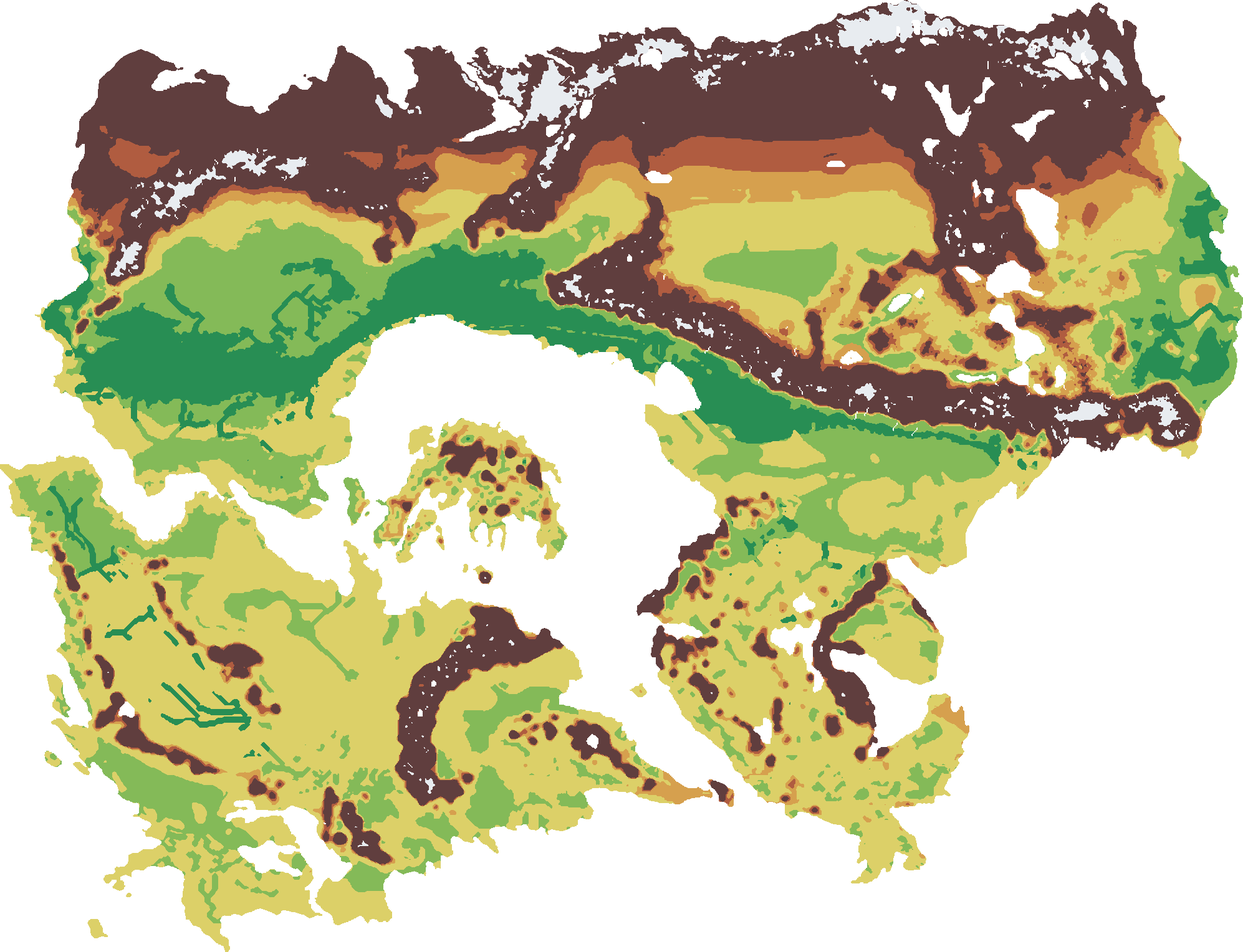
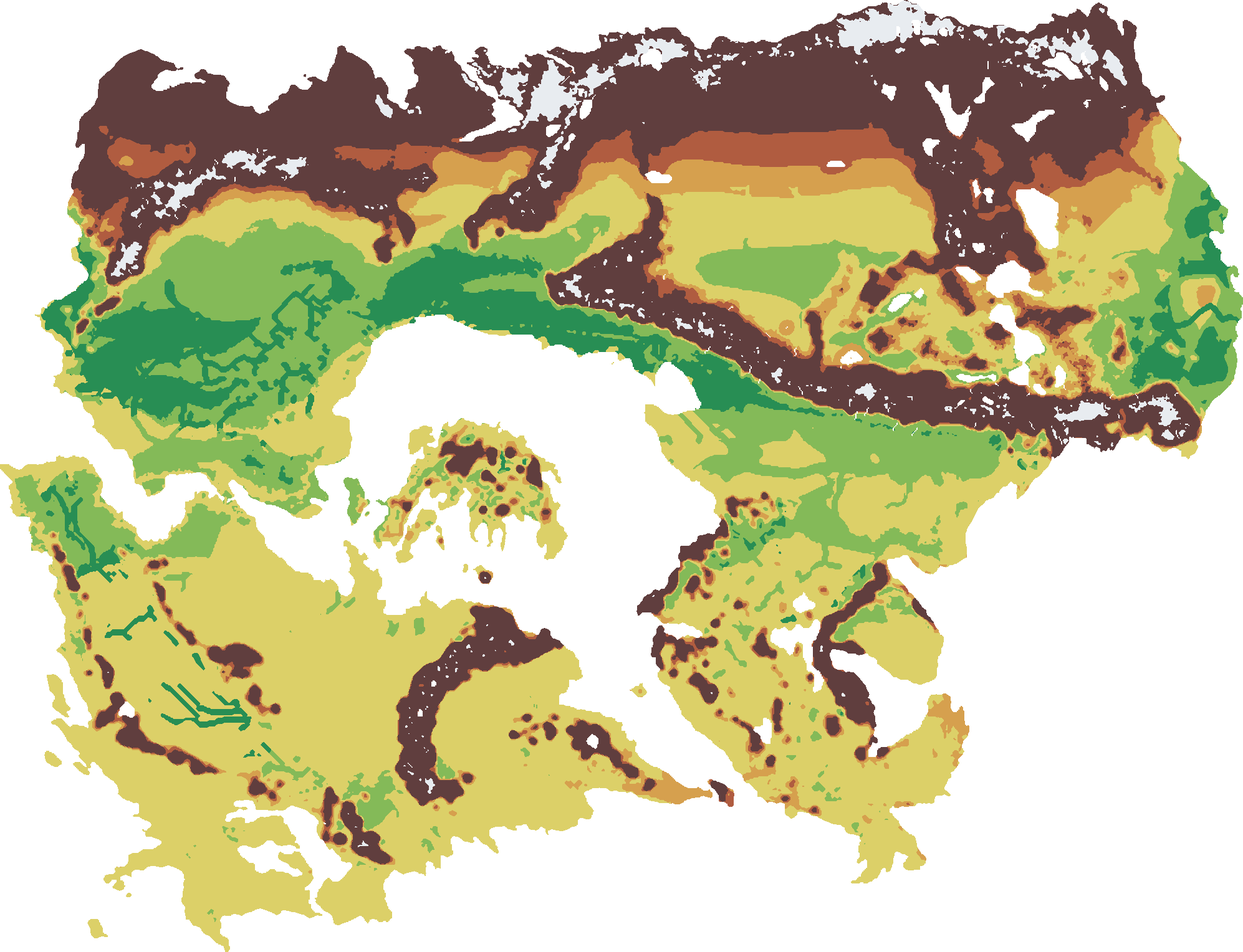
Yaşanabilirlik: hastalık (MARA sıtma mevsimi) ve taşkın etkenleri
Claude-Session: https://claude.ai/code/session_01X56oZFTqgptLAFmNm82jib

diff --git a/app.js b/app.js
@@ -1103,14 +1103,14 @@ function baslat(J, resimler){
   }
   function yasamSatiri(lon, lat){
     if(!yasamModu() || !yasamKur() || !YK.veri) return "";
-    // veri PNG'si dikey 4 bölüm: 0 = sınıf + 16 × su erişimli, puan × 2.5; 1-3 = dokuz etken (RGB sırayla)
+    // veri PNG'si dikey bölümler: 0 = sınıf + 16 × su erişimli, puan × 2.5; sonrakiler = etkenler (RGB sırayla, bölüm başına 3)
     const K = YJ.kesit, V = yasamRes()[1], W2 = V.naturalWidth, H2 = YJ.yukseklik;
     const x = Math.floor((lon-K[0])/(K[2]-K[0])*W2), y = Math.floor((K[3]-lat)/(K[3]-K[1])*H2);
     if(x < 0 || y < 0 || x >= W2 || y >= H2) return "";
     const p = YK.veri.getImageData(x, y, 1, 1).data, c = YJ.siniflar[p[0] & 15]; if(!c) return "";
     if((p[0] & 15) === 7) return `<div class="k-bk"><b>Yaşanabilirlik</b> ${c.ad} · ${c.ne}</div>`;
-    const f = []; for(let m = 1; m <= 3; m++){ const q = YK.veri.getImageData(x, y + m*H2, 1, 1).data; f.push(q[0]/255, q[1]/255, q[2]/255); }
-    const E = YJ.etkenler, puan = Math.round(p[1]/2.5), yuz = v => "%" + Math.round(v*100);
+    const E = YJ.etkenler, f = []; for(let m = 1; m <= Math.ceil(E.length/3); m++){ const q = YK.veri.getImageData(x, y + m*H2, 1, 1).data; f.push(q[0]/255, q[1]/255, q[2]/255); }
+    const puan = Math.round(p[1]/2.5), yuz = v => "%" + Math.round(v*100);
     // 0.75 altındakiler sınırlayıcı: en zayıftan başlayarak; geri kalanı kısaca
     const sirali = E.map((e, i) => ({ad:e.ad, v:f[i]})).sort((a, b) => a.v - b.v), zayif = sirali.filter(e => e.v < 0.75), iyi = sirali.filter(e => e.v >= 0.75);
     return `<div class="k-bk"><b>Yaşanabilirlik</b> ${c.ad} · ${puan}/100 <small>${c.ne}</small></div>`
@@ -1415,7 +1415,7 @@ function baslat(J, resimler){
     if(k!=="iklim"){ gor = gorunumKur(D, k, donem, ayar.bant);
       if(G){ G.kur("tAlan", gor.a, W, H, "L", true); G.kur("tLut", gor.lut, 256, 1, "RGB", true); } }
     if(!G) yedekBoya();
-    $("#altbaslik").textContent = {iklim:"İklim sınıfları, Köppen-Geiger", arazi: TK && ayar.araziMod==="levha" ? "Levhalar, sınırlar ve volkan kuşakları" : BI && ayar.araziMod==="bitki" ? "Doğal bitki örtüsü, iklimden" : TP && ayar.araziMod==="toprak" ? "Toprak türleri, WRB" : YS && ayar.araziMod==="yasam" ? "Yaşanabilirlik, dokuz etkenli puan" : TR && ayar.araziMod==="tarim" ? "Tarımsal verimlilik, dört etkenli puan" : "Arazi, yükseklik",
+    $("#altbaslik").textContent = {iklim:"İklim sınıfları, Köppen-Geiger", arazi: TK && ayar.araziMod==="levha" ? "Levhalar, sınırlar ve volkan kuşakları" : BI && ayar.araziMod==="bitki" ? "Doğal bitki örtüsü, iklimden" : TP && ayar.araziMod==="toprak" ? "Toprak türleri, WRB" : YS && ayar.araziMod==="yasam" ? "Yaşanabilirlik, on bir etkenli puan" : TR && ayar.araziMod==="tarim" ? "Tarımsal verimlilik, dört etkenli puan" : "Arazi, yükseklik",
       sicaklik: ayar.sicMod!=="ort" && gunlukAl(D) ? "Sıcaklık, "+SIC_MOD[ayar.sicMod]+", "+(donem<0 ? (ayar.sicMod==="tepe" ? "yılın en sıcak ayı" : ayar.sicMod==="dip" ? "yılın en soğuk ayı" : "yıllık ortalama") : AYLAR[donem])
         : "Sıcaklık, "+(donem<0 ? "yıllık ortalama" : AYLAR[donem]),
       yagis:"Yağış, "+(donem<0 ? "yıllık toplam" : AYLAR[donem]),

diff --git a/test/uygulama_test.js b/test/uygulama_test.js
@@ -308,8 +308,8 @@ const OLC = () => {
       await p.evaluate(() => document.querySelector("[data-arazimod=yukseklik]").click());
       await p.waitForFunction(() => document.querySelector("#yasam").hidden, null, { timeout: 5000 }).catch(() => {});
       const kapali = await ysPiksel();
-      denetle("genel yasanabilirlik: harita ciziliyor, kartta yasanabilirlik satiri, yukseklikte bos",
-        acik > 50000 && kapali === 0 && /Yaşanabilirlik/.test(t), `acik ${acik}, kapali ${kapali} piksel; ${t.slice(0, 80)}`);
+      denetle("genel yasanabilirlik: harita ciziliyor, kartta yasanabilirlik satiri (hastalik ve taskin dahil), yukseklikte bos",
+        acik > 50000 && kapali === 0 && /Yaşanabilirlik/.test(t) && /Hastalık/.test(t) && /Taşkın/.test(t), `acik ${acik}, kapali ${kapali} piksel; ${t.slice(0, 80)}`);
       // nehir cevresi secenegi: dar secilince yeniden cizilir, genise donunce de
       await p.evaluate(() => document.querySelector("[data-k=arazi]").click()); await bekle(250);
       await p.evaluate(() => document.querySelector("[data-arazimod=yasam]").click()); await bekle(400);

diff --git a/sw.js b/sw.js
@@ -11,7 +11,7 @@
 
    AD'yi yalnizca KABUK listesi degistiginde artir. Kod ve veri guncellemesi
    icin gerekmez: ag-once zaten tazesini getirir. */
-const AD = 'dunyam-atlas-v13';   // v12: yaşanabilirlikte nehir çevresi seçeneği
+const AD = 'dunyam-atlas-v13';   // v13: tarım katmanı
 const KABUK = [
   './', 'index.html', 'app.js', 'style.css', 'manifest.webmanifest', 'data/atlas.json',
   'data/doku.png', 'data/yukseklik.png', 'data/kabartma.jpg', 'data/kabartma_gri.jpg', 'data/kabartma_bir.jpg', 'data/dolasim.png', 'data/su.json', 'data/tektonik.json', 'data/levha.png', 'data/bitki.json', 'data/bitki.png', 'data/bitki_veri.png', 'data/toprak.json', 'data/toprak.png', 'data/toprak_veri.png', 'data/yasam.json', 'data/yasam.png', 'data/yasam_veri.png', 'data/yasam_dar.png', 'data/yasam_dar_veri.png', 'data/tarim.json', 'data/tarim.png', 'data/tarim_veri.png', 'data/tarim_yagmur.png', 'data/tarim_yagmur_veri.png',

diff --git a/yasam/yasam.py b/yasam/yasam.py
@@ -15,7 +15,11 @@ sıcak ve nemli olduğu için neredeyse her yer tavana yapışıyordu (sahibi 1 
   5 toprak        WRB türünün verimlilik sırası (toprak/toprak.py); ağırlığı 0, gıdanın içinde
   6 deniz         kıyıya uzaklık (balık, ticaret, ılımanlık)
   7 tehlike       çarpışma/dönüşüm levha sınırı (deprem) ve volkan kuşağı
-  8 alan          çevredeki ~50 km'de elverişli kara payı: dar bir şerit mi, geniş bir ova mı
+  8 hastalık      sıtma gibi sivrisinek kaynaklı hastalıkların iklim uygunluğu: aylık ortalama
+                  18-32 °C ve yağış >= 80 mm olan ay sayısı (MARA/ARMA, Craig, Snow ve le Sueur 1999)
+  9 taşkın        büyük nehrin taşkın ovası (nehirden yükseklik, debi, yağışın mevsimselliği) ve
+                  alçak kıyı (fırtına kabarması)
+ 10 alan          çevredeki ~50 km'de elverişli kara payı: dar bir şerit mi, geniş bir ova mı
 
 Birleşim: ağırlıklı geometrik ortalama (bir etken 0 ise sonuç 0: en zayıf halka
 belirleyicidir, ortalama gibi telafi edilemez), alan etkeni çarpan olarak.
@@ -59,6 +63,8 @@ ETKEN = [
     ("Toprak", "toprak türünün verimliliği (gıdanın içinde)", 0.0),
     ("Deniz", "kıyıya uzaklık", 0.5),
     ("Tehlike", "deprem ve volkan", 1.0),
+    ("Hastalık", "sivrisinek kaynaklı hastalık mevsimi", 2.0),
+    ("Taşkın", "nehir taşkın ovası ve alçak kıyı", 0.5),
 ]
 # toprak türü (toprak/toprak.py kodu) → verimlilik 0-1 (WRB türlerinin genel tarımsal sırası; yargı)
 TOPRAK_VERIM = {1: 0.40, 2: 0.55, 3: 0.45, 4: 0.80, 5: 0.70, 6: 0.35, 7: 1.00, 8: 0.85,
@@ -78,8 +84,9 @@ def npp(Tyil, AET):
     return np.minimum(nt, na)
 
 
-def etkenler(T, Tc, Tw, gdd5, alfa, P, aet, pe, kuru_ay, pay3, egim, z, toprak_f, kiyi_km, tehlike, w):
-    """Sekiz etken (0-1), alan etkeni ayrı hesaplanır. w: nehir/göl erişimi 0-1."""
+def etkenler(T, Tc, Tw, gdd5, alfa, P, aet, pe, kuru_ay, pay3, egim, z, toprak_f, kiyi_km, tehlike, w, hastalik_ay, taskin):
+    """On etken (0-1), alan etkeni ayrı hesaplanır. w: nehir/göl erişimi 0-1;
+    hastalik_ay: bulaşmaya uygun ay sayısı (0-12); taskin: taşkın riski 0-1."""
     # nüfus yoğunluğunun yıllık ortalama sıcaklığa dağılımı (Xu vd. 2020, PNAS): ana tepe
     # ~11-15 °C, daha küçük ikinci tepe ~20-25 °C (çoğunlukla Hint muson bölgesi).
     # İlk sürümde ikinci tepe yanlışlıkla 27 °C'deydi (1 Ekim düzeltildi); bu Amazon gibi
@@ -103,7 +110,13 @@ def etkenler(T, Tc, Tw, gdd5, alfa, P, aet, pe, kuru_ay, pay3, egim, z, toprak_f
     arazi = (1 - ss(egim, 40, 300)) * (1 - ss(z, 2000, 5000))
     toprak_e = toprak_f
     deniz = 0.6 + 0.4 * np.exp(-kiyi_km / 400.0)
-    return [sic, su, gida, mev, arazi, toprak_e, deniz, tehlike]
+    # hastalık: kararlı bulaşma ~5 uygun ay ister (MARA); 1 ayda başlar, 7 ayda tam yük.
+    # Tam yükte etken 0.5, ağırlık 2: tropik ovalar yaşanmaz olmaz, ama Amazon ve Kongo
+    # havzası gibi sıcak ve yağışlı yerler ılıman ovaların gerisinde kalır. Ağırlık 1 ve
+    # 0.6 ile Amazon yalnız 42.0 → 41.7 iniyordu (geometrik ortalamada eriyordu).
+    hastalik = 1 - 0.5 * ss(hastalik_ay, 1, 7)
+    taskin_e = 1 - 0.35 * np.clip(taskin, 0, 1)
+    return [sic, su, gida, mev, arazi, toprak_e, deniz, tehlike, hastalik, taskin_e]
 
 
 def birlestir(f):
@@ -163,6 +176,35 @@ def su_agirligi(sinif, gol, genis):
     return np.maximum(w, _profil(dg, GOL_GENIS if genis else GOL_DAR, genis))
 
 
+def hastalik_aylari(Tay, Pay):
+    """Sıtma bulaşmasına iklimce uygun ay sayısı (bulanık, 0-12). MARA/ARMA (Craig, Snow
+    ve le Sueur 1999): aylık ortalama 18-32 °C (18-22 ve 32-40 arası geçiş) ve aylık yağış
+    en az 80 mm (0-80 arası geçiş). Kış minimumu ve ardışıklık koşulu sadeleştirildi."""
+    t = ss(Tay, 18, 22) * (1 - ss(Tay, 32, 40))
+    return (t * ss(Pay, 0, 80)).sum(0)
+
+
+def taskin_riski(z, egim, sinif, pay3, ocean):
+    """0-1 taşkın riski. Nehir: en yakın nehir hücresinin yüksekliğine göre yükseklik
+    (HAND benzeri) 3 m'de tam, 25 m'de sıfır; debi sınıfına göre genişleyen ova
+    (1: 3, 2: 6, 3: 12 hücre) ve sınıf ağırlığı (0.4, 0.7, 1); yağış birkaç aya yığılmışsa
+    (en yağışlı 3 ayın payı 0.35-0.70) daha sert. Kıyı: denize 2 hücre içinde ve 2-15 m
+    alçaklık (fırtına kabarması, delta)."""
+    r = np.zeros(z.shape, np.float32)
+    for c, (gen, agr) in {1: (3, 0.4), 2: (6, 0.7), 3: (12, 1.0)}.items():
+        nehir = sinif >= c
+        if not nehir.any():
+            continue
+        dist, (yi, xi) = ndimage.distance_transform_edt(~nehir, return_indices=True)
+        hand = np.maximum(z - z[yi, xi], 0)
+        ova = np.where(dist < gen, 0.5 * (1 + np.cos(np.pi * dist / gen)), 0)
+        r = np.maximum(r, agr * ova * (1 - ss(hand, 3, 25)) * (1 - ss(egim, 40, 150)))
+    r = r * (0.6 + 0.4 * ss(pay3, 0.35, 0.70))
+    kiyi = ndimage.distance_transform_edt(~ocean) <= 2
+    r = np.maximum(r, 0.6 * kiyi * (1 - ss(z, 2, 15)))
+    return np.clip(r, 0, 1)
+
+
 def tehlike_alani(lat, lon, shape):
     """Çarpışma, dalma ve dönüşüm sınırlarının ~40 km çevresi (deprem) ve volkan
     kuşakları (toprak/toprak.py maskesi). 1 = tehlikesiz, 0.6'ya kadar iner."""
@@ -196,33 +238,34 @@ def alan_etkeni(S0, kara):
     return 0.7 + 0.3 * ss(pay, 0.10, 0.60), pay
 
 
-# sıra: T, Tc, Tw, gdd5, alfa, P, aet, pe, kuru_ay, pay3, egim, z, toprak, kiyi_km, tehlike, w, alan payı
+# sıra: T, Tc, Tw, gdd5, alfa, P, aet, pe, kuru_ay, pay3, egim, z, toprak, kiyi_km, tehlike, w, alan payı,
+# hastalık ayı (MARA uygun ay sayısı, kaba), taşkın riski (0-1, yargı: Sarı Irmak, Ganj yüksek)
 DUNYA_ORNEKLERI = {
-        "Po ovası (Bologna)":             (14, 2.5, 25, 3000, 0.75, 800, 600, 800, 0, 0.32, 15, 50, 0.95, 80, 0.85, 0.5, 1.0),
-        "Kuzey Çin ovası (Zhengzhou)":    (15, 0.5, 27.5, 3500, 0.55, 640, 520, 950, 2, 0.55, 15, 100, 0.95, 500, 0.95, 0.5, 1.0),
-        "Paris havzası":                  (11.5, 4, 20, 2300, 0.85, 640, 520, 610, 0, 0.28, 30, 80, 0.80, 150, 1.0, 0.3, 1.0),
-        "Ukrayna bozkırı (Harkov)":       (7.5, -6.5, 20.5, 2200, 0.55, 520, 450, 650, 0, 0.36, 25, 150, 1.00, 450, 1.0, 0.2, 1.0),
-        "Etiyopya yaylası (Addis Ababa)": (16, 14.5, 18, 4000, 0.70, 1100, 800, 1100, 4, 0.60, 110, 2350, 0.80, 600, 0.70, 0.2, 0.9),
-        "Ganj ovası (Lucknow-Varanasi)":  (25.5, 16, 32.5, 7500, 0.60, 1100, 900, 1500, 6, 0.70, 15, 50, 0.95, 400, 0.95, 1.0, 1.0),
-        "Yunnan yaylası (Kunming)":       (15.5, 9, 20.5, 3700, 0.70, 1000, 750, 1050, 4, 0.55, 120, 1890, 0.45, 600, 0.85, 0.2, 0.85),
-        "Amazon ormanı (Manaus)":         (27.5, 26.5, 28.5, 8000, 0.95, 2300, 1400, 1450, 0, 0.42, 20, 50, 0.40, 1300, 1.0, 0.3, 1.0),
-        "Nil vadisi (Kahire)":            (22, 14, 29, 6500, 0.08, 25, 25, 1500, 12, 0.55, 15, 20, 0.95, 150, 1.0, 1.0, 0.75),
-        "Mezopotamya (Bağdat)":           (23, 10, 35, 6500, 0.10, 150, 150, 1800, 8, 0.50, 15, 40, 0.80, 450, 1.0, 1.0, 0.85),
-        "Kanada kalkanı (Thompson)":      (-3, -24, 16, 1100, 0.70, 540, 330, 380, 0, 0.40, 40, 230, 0.35, 600, 1.0, 0.3, 1.0),
-        "Sibirya taygası (Yakutsk)":      (-8.8, -38, 19, 1300, 0.60, 240, 150, 250, 3, 0.50, 30, 100, 0.35, 1000, 1.0, 0.3, 1.0),
-        "Sahra içi":                      (24, 13, 34, 6800, 0.02, 15, 15, 2200, 12, 0.60, 30, 400, 0.30, 900, 1.0, 0.0, 1.0),
-        "Tibet platosu (Nagqu)":          (-1, -13, 9, 300, 0.50, 430, 300, 450, 0, 0.80, 150, 4500, 0.15, 1500, 0.85, 0.2, 0.8),
+        "Po ovası (Bologna)":             (14, 2.5, 25, 3000, 0.75, 800, 600, 800, 0, 0.32, 15, 50, 0.95, 80, 0.85, 0.5, 1.0, 1, 0.5),
+        "Kuzey Çin ovası (Zhengzhou)":    (15, 0.5, 27.5, 3500, 0.55, 640, 520, 950, 2, 0.55, 15, 100, 0.95, 500, 0.95, 0.5, 1.0, 2, 0.7),
+        "Paris havzası":                  (11.5, 4, 20, 2300, 0.85, 640, 520, 610, 0, 0.28, 30, 80, 0.80, 150, 1.0, 0.3, 1.0, 0, 0.2),
+        "Ukrayna bozkırı (Harkov)":       (7.5, -6.5, 20.5, 2200, 0.55, 520, 450, 650, 0, 0.36, 25, 150, 1.00, 450, 1.0, 0.2, 1.0, 0, 0.1),
+        "Etiyopya yaylası (Addis Ababa)": (16, 14.5, 18, 4000, 0.70, 1100, 800, 1100, 4, 0.60, 110, 2350, 0.80, 600, 0.70, 0.2, 0.9, 0, 0.0),
+        "Ganj ovası (Lucknow-Varanasi)":  (25.5, 16, 32.5, 7500, 0.60, 1100, 900, 1500, 6, 0.70, 15, 50, 0.95, 400, 0.95, 1.0, 1.0, 4, 0.8),
+        "Yunnan yaylası (Kunming)":       (15.5, 9, 20.5, 3700, 0.70, 1000, 750, 1050, 4, 0.55, 120, 1890, 0.45, 600, 0.85, 0.2, 0.85, 0, 0.1),
+        "Amazon ormanı (Manaus)":         (27.5, 26.5, 28.5, 8000, 0.95, 2300, 1400, 1450, 0, 0.42, 20, 50, 0.40, 1300, 1.0, 0.3, 1.0, 11, 0.5),
+        "Nil vadisi (Kahire)":            (22, 14, 29, 6500, 0.08, 25, 25, 1500, 12, 0.55, 15, 20, 0.95, 150, 1.0, 1.0, 0.75, 0, 0.3),
+        "Mezopotamya (Bağdat)":           (23, 10, 35, 6500, 0.10, 150, 150, 1800, 8, 0.50, 15, 40, 0.80, 450, 1.0, 1.0, 0.85, 0, 0.5),
+        "Kanada kalkanı (Thompson)":      (-3, -24, 16, 1100, 0.70, 540, 330, 380, 0, 0.40, 40, 230, 0.35, 600, 1.0, 0.3, 1.0, 0, 0.1),
+        "Sibirya taygası (Yakutsk)":      (-8.8, -38, 19, 1300, 0.60, 240, 150, 250, 3, 0.50, 30, 100, 0.35, 1000, 1.0, 0.3, 1.0, 0, 0.3),
+        "Sahra içi":                      (24, 13, 34, 6800, 0.02, 15, 15, 2200, 12, 0.60, 30, 400, 0.30, 900, 1.0, 0.0, 1.0, 0, 0.0),
+        "Tibet platosu (Nagqu)":          (-1, -13, 9, 300, 0.50, 430, 300, 450, 0, 0.80, 150, 4500, 0.15, 1500, 0.85, 0.2, 0.8, 0, 0.0),
     }
 
 
 def dunya_orneklari():
     """Gerçek dünya bölgeleriyle sağlama: aynı etkenler, yaklaşık iklim normalleri ve
     arazi (ezbere, kaba), gerçek nüfus yoğunluğuyla karşılaştırma için. YASAM.md'de tablo.
-    sıra: T, Tc, Tw, gdd5, alfa, P, aet, pe, kuru_ay, pay3, egim, z, toprak, kiyi_km, tehlike, w, alan payı"""
+    sıra: DUNYA_ORNEKLERI'nin üstündeki not"""
     out = {}
     for ad, v in DUNYA_ORNEKLERI.items():
-        T, Tc, Tw, g5, al, P, ae, pe, dm, p3, eg, z, tf, kk, th, w, alan = [np.array([float(x)]) for x in v]
-        f = etkenler(T, Tc, Tw, g5, al, P, ae, pe, dm, p3, eg, z, tf, kk, th, w)
+        T, Tc, Tw, g5, al, P, ae, pe, dm, p3, eg, z, tf, kk, th, w, alan, ha, ta = [np.array([float(x)]) for x in v]
+        f = etkenler(T, Tc, Tw, g5, al, P, ae, pe, dm, p3, eg, z, tf, kk, th, w, ha, ta)
         out[ad] = (float(birlestir(f)[0] * (0.7 + 0.3 * ss(alan, 0.10, 0.60))[0] * 100), [float(x[0]) for x in f])
     return out
 
@@ -230,7 +273,7 @@ def dunya_orneklari():
 def varyant(ad, genis, G, kutu):
     w = su_agirligi(G["sinif"], G["gol"], genis) * G["kara"]
     f = etkenler(G["T"], G["Tc"], G["Tw"], G["gdd5"], G["alfa"], G["P"], G["aet"], G["pe"], G["kuru_ay"], G["pay3"], G["egim"],
-                 G["z"], G["toprak_f"], G["kiyi_km"], G["tehlike"], w)
+                 G["z"], G["toprak_f"], G["kiyi_km"], G["tehlike"], w, G["hastalik_ay"], G["taskin"])
     S0 = birlestir(f)
     alan, _ = alan_etkeni(S0, G["kara"])
     S = 100 * S0 * alan
@@ -267,12 +310,13 @@ def varyant(ad, genis, G, kutu):
         pal[3 * c:3 * c + 3] = list(r)
     im.putpalette(pal)
     im.save(os.path.join(KOK, "data", "yasam%s.png" % ad), optimize=True, transparency=0)
-    # kart verisi, dikey 4 bölüm (her biri kaynak çözünürlükte, h yüksekliğinde):
+    # kart verisi, dikey 5 bölüm (her biri kaynak çözünürlükte, h yüksekliğinde):
     #   0: R = sınıf + 16 * su erişimli, G = puan * 2.5, B = 0
-    #   1-3: dokuz etken (0-1 → 0-255), sırayla RGB, RGB, RGB
+    #   1-4: on bir etken (0-1 → 0-255), sırayla RGB; son bölümün B'si boş
     b0 = np.stack([kc + 16 * sulak[i0:i1, j0:j1], np.clip(np.round(S[i0:i1, j0:j1] * 2.5), 0, 250), np.zeros_like(kc)], -1)
     fb = [np.clip(np.round(x[i0:i1, j0:j1] * 255), 0, 255) for x in f]
-    bol = [b0] + [np.stack(fb[3 * m:3 * m + 3], -1) for m in range(3)]
+    fb = fb + [np.zeros_like(fb[0])] * (-len(fb) % 3)
+    bol = [b0] + [np.stack(fb[3 * m:3 * m + 3], -1) for m in range(len(fb) // 3)]
     Image.fromarray(np.concatenate(bol, 0).astype(np.uint8), "RGB").save(os.path.join(KOK, "data", "yasam%s_veri.png" % ad), optimize=True)
     return pay, ort, secim.shape, f
 
@@ -281,7 +325,7 @@ def main():
     ornek = dunya_orneklari()
     print("Dünya bölgeleri: puan; sıcaklık/su/gıda/mevsim/arazi")
     for ad, (S, f) in ornek.items():
-        print("  %-31s %5.1f   %s" % (ad, S, " ".join("%.2f" % x for x in f[:5])))
+        print("  %-31s %5.1f   %s   hast %.2f taşk %.2f" % (ad, S, " ".join("%.2f" % x for x in f[:5]), f[8], f[9]))
     d = akim.hesapla(os.path.join(KOK, "buzul", "_iklim_bugun025.npz"))
     z, lat, lon = d["z"], d["lat"], d["lon"]
     su = np.load(os.path.join(KOK, "su", "_su.npz"))
@@ -302,7 +346,9 @@ def main():
     G = dict(T=T, Tc=b["Tc"], Tw=b["Tw"], gdd5=b["gdd5"], alfa=b["alfa"], P=d["P"], aet=d["AET"], pe=d["PE"],
              kuru_ay=kuru_ay, pay3=pay3, egim=tp._egim(z), z=z, toprak_f=toprak_f, kiyi_km=kiyi_km,
              tehlike=tehlike_alani(lat, lon, kara.shape), gol=gol, kara=kara, buzul=d["buzul"],
-             sinif=nehir_sinifi(lat, lon, kara.shape), wgt=np.cos(np.radians(lat))[:, None] * kara)
+             sinif=nehir_sinifi(lat, lon, kara.shape), wgt=np.cos(np.radians(lat))[:, None] * kara,
+             hastalik_ay=hastalik_aylari(d["Tay"], d["Pay"]))
+    G["taskin"] = taskin_riski(z, G["egim"], G["sinif"], pay3, ocean) * kara
     ii, jj = np.where(kara)
     kutu = (ii.min(), ii.max() + 1, jj.min(), jj.max() + 1)
     i0, i1, j0, j1 = kutu
@@ -315,7 +361,7 @@ def main():
     kesit = [float(lon[j0] - dn / 2), float(lat[i1 - 1] + dl / 2), float(lon[j1 - 1] + dn / 2), float(lat[i0] - dl / 2)]
     veri = dict(ne="Dünyam yaşanabilirlik endeksi (yasam/yasam.py); yöntem YASAM.md",
                 kesit=kesit, ortalama=round(ort, 1), ortalama_dar=round(ort_d, 1), yukseklik=int(i1 - i0),
-                kodlar="yasam.png (geniş, yumuşak nehir çevresi, varsayılan) ve yasam_dar.png (nehrin yanı); yasam*_veri.png dikey 4 bölüm: 0 = R sınıf + 16 * su erişimli, G puan * 2.5; 1-3 = dokuz etken 0-255 (RGB sırayla)",
+                kodlar="yasam.png (geniş, yumuşak nehir çevresi, varsayılan) ve yasam_dar.png (nehrin yanı); yasam*_veri.png dikey 5 bölüm: 0 = R sınıf + 16 * su erişimli, G puan * 2.5; 1-4 = on bir etken 0-255 (RGB sırayla)",
                 etkenler=[dict(ad=a, ne=n, agirlik=wt) for a, n, wt in ETKEN] + [dict(ad="Alan", ne="çevredeki elverişli kara genişliği", agirlik=0)],
                 siniflar={str(c): dict(ad=a, ne=nn, ornek=o, renk=list(rr), alt=e, pay=round(pay[c], 4), pay_dar=round(pay_d[c], 4))
                           for c, (a, nn, o, rr, e) in SINIF.items()})

diff --git a/tarim/tarim.py b/tarim/tarim.py
@@ -81,7 +81,7 @@ def orneklerden():
     hem sulamalı hem yalnız yağmur. Girdiler kaba normallerdir (ezbere)."""
     out = {}
     for ad, v in ys.DUNYA_ORNEKLERI.items():
-        T, Tc, Tw, g5, al, P, ae, pe, dm, p3, eg, z, tf, kk, th, w, alan = [np.array([float(x)]) for x in v]
+        T, Tc, Tw, g5, al, P, ae, pe, dm, p3, eg, z, tf, kk, th, w, alan = [np.array([float(x)]) for x in v[:17]]
         r = []
         for ww in (w, np.zeros(1)):
             r.append(float(birlestir(etkenler(T, Tw, g5, al, P, dm, eg, z, tf, ww))[0] * 100))

diff --git a/CLAUDE.md b/CLAUDE.md
@@ -41,7 +41,7 @@ Kurgusal bir gezegenin iklim atlası. İki parçası var:
   hata: gündüz-gece farkı 1.9, tepe 1.7, dip 1.35 °C. Gündüz-gece farkı
   √(gün/24) ile ölçeklenir (Dünyam 15 saat: %21 küçük). Kalibrasyon 25-48°K;
   tropikte ve çok yüksekte kaba. Sıcaklık sekmesinde Ortalama/Gündüz/Gece/
-  Tepe/Dip seçimi, kartta klimagram bandı ve satırı. Denize dokununca (her sekmede) deniz kartı: su sıcaklığı, aylık rüzgâr yönü ve Beaufort şeridi, en sert/sakin ay, deniz buzu ayları, tropikal fırtına koşulu (su ≥ 26,5 °C, enlem 5-30°; motor siklon çözmez, yalnız eşik), yakındaki akıntı (`dunyam.currents.json`'dan; "mevsimsel genlik" girdisi akıntı sayılmaz), yağış, en yakın karanın yönü ve sınıfı. Derinlik, gelgit, dalga verisi yok; deniz dokusundaki sığ/derin tonu kıyıya uzaklıktır, batimetri değil. Göller ve nehirler her sekmede kaplama (`data/su.json`, `su/` üretir; ayarlarda aç/kapa, "Ana kollar / Bütün kollar"): uzaktan yalnız 1. kademe büyük ana kollar, yakınlaştıkça 2-4. kademe yumuşakça belirir; göle ya da nehre dokununca kartta Göl/Nehir satırı. Kaydırırken su tuvali yeniden boyanmaz, CSS ile kayar. Su, shader'daki `deniz()` renkleriyle (sığ ton, kıyı köpüğü, kıyı ışıltısı) çizilir; ayrı parlak mavi katman haritaya yapıştırma gibi duruyordu. Dolaşım sekmesinde su çizilmez. Arazi sekmesinde "Yükseklik / Levhalar" seçimi: Levhalar'da levha renkleri, adları ve hızları, sınırlar (yakınsak kırmızı ve dişli, ıraksak yeşil, dönüşüm turuncu) ve volkan kuşakları (`data/tektonik.json`, `data/levha.png`; `tektonik/uygulama.py` üretir); dokununca kartta Levha/Sınır/Volkan satırı. Arazi'de üçüncü seçim "Bitki örtüsü": iklimden doğal biyom haritası (`data/bitki.png`, `bitki_veri.png`, `bitki.json`; `bitki/bitki.py`, BIOME1 eşikleri, `BITKI.md`), kabartmayla gölgeli; kartta biyom ve nedeni. Dördüncü seçim "Toprak": bölgesel (zonal) WRB toprak türleri, biyom + eğim + önülke alüvyon ovası + volkan kuşağı + kapalı havza + nehir taşkın ovasından (`data/toprak.png`, `toprak_veri.png`, `toprak.json`; `toprak/toprak.py`, `TOPRAK.md`), aynı yoldan kabartmayla gölgeli; kartta toprak türü ve Dünya'daki örneği. Beşinci seçim "Yaşanabilirlik": dokuz etkenli 0-100 puan (sıcaklık, su, gıda (toprak verimliliğiyle çarpılır), mevsimsellik, arazi, deniz erişimi, tehlike, alan genişliği; ağırlıklı geometrik ortalama, tek ağır kısıt puanı düşürür; `data/yasam.png`, `yasam_veri.png`, `yasam.json`; `yasam/yasam.py`, `YASAM.md`); kartta sınıf, puan, zayıf ve iyi yönler. Altıncı seçim "Tarım": dört etkenli (ısı, su, toprak, arazi) tarımsal verimlilik puanı, en zayıf halka belirleyici; iki varyant, "Nehirle sulamalı" (varsayılan) ve "Yalnız yağmur" (`data/tarim*.png`, `tarim_veri.png`, `tarim.json`; `tarim/tarim.py`, `TARIM.md`); kartta sınıf, puan, etkenler ve sınırlayan etken. Nehir çevresi iki seçenekli ayar: "Geniş, yumuşak" (varsayılan, debiye göre 2.5-8 hücre kosinüsle söner) ve "Nehrin yanı"; ikisi için ayrı PNG (`yasam.png`, `yasam_dar.png`, `*_veri.png`). Veriyi `data/atlas.json`'dan,
+  Tepe/Dip seçimi, kartta klimagram bandı ve satırı. Denize dokununca (her sekmede) deniz kartı: su sıcaklığı, aylık rüzgâr yönü ve Beaufort şeridi, en sert/sakin ay, deniz buzu ayları, tropikal fırtına koşulu (su ≥ 26,5 °C, enlem 5-30°; motor siklon çözmez, yalnız eşik), yakındaki akıntı (`dunyam.currents.json`'dan; "mevsimsel genlik" girdisi akıntı sayılmaz), yağış, en yakın karanın yönü ve sınıfı. Derinlik, gelgit, dalga verisi yok; deniz dokusundaki sığ/derin tonu kıyıya uzaklıktır, batimetri değil. Göller ve nehirler her sekmede kaplama (`data/su.json`, `su/` üretir; ayarlarda aç/kapa, "Ana kollar / Bütün kollar"): uzaktan yalnız 1. kademe büyük ana kollar, yakınlaştıkça 2-4. kademe yumuşakça belirir; göle ya da nehre dokununca kartta Göl/Nehir satırı. Kaydırırken su tuvali yeniden boyanmaz, CSS ile kayar. Su, shader'daki `deniz()` renkleriyle (sığ ton, kıyı köpüğü, kıyı ışıltısı) çizilir; ayrı parlak mavi katman haritaya yapıştırma gibi duruyordu. Dolaşım sekmesinde su çizilmez. Arazi sekmesinde "Yükseklik / Levhalar" seçimi: Levhalar'da levha renkleri, adları ve hızları, sınırlar (yakınsak kırmızı ve dişli, ıraksak yeşil, dönüşüm turuncu) ve volkan kuşakları (`data/tektonik.json`, `data/levha.png`; `tektonik/uygulama.py` üretir); dokununca kartta Levha/Sınır/Volkan satırı. Arazi'de üçüncü seçim "Bitki örtüsü": iklimden doğal biyom haritası (`data/bitki.png`, `bitki_veri.png`, `bitki.json`; `bitki/bitki.py`, BIOME1 eşikleri, `BITKI.md`), kabartmayla gölgeli; kartta biyom ve nedeni. Dördüncü seçim "Toprak": bölgesel (zonal) WRB toprak türleri, biyom + eğim + önülke alüvyon ovası + volkan kuşağı + kapalı havza + nehir taşkın ovasından (`data/toprak.png`, `toprak_veri.png`, `toprak.json`; `toprak/toprak.py`, `TOPRAK.md`), aynı yoldan kabartmayla gölgeli; kartta toprak türü ve Dünya'daki örneği. Beşinci seçim "Yaşanabilirlik": on bir etkenli 0-100 puan (sıcaklık, su, gıda (toprak verimliliğiyle çarpılır), mevsimsellik, arazi, deniz erişimi, tehlike, hastalık (MARA sıtma mevsimi), taşkın, alan genişliği; ağırlıklı geometrik ortalama, tek ağır kısıt puanı düşürür; `data/yasam.png`, `yasam_veri.png`, `yasam.json`; `yasam/yasam.py`, `YASAM.md`); kartta sınıf, puan, zayıf ve iyi yönler. Altıncı seçim "Tarım": dört etkenli (ısı, su, toprak, arazi) tarımsal verimlilik puanı, en zayıf halka belirleyici; iki varyant, "Nehirle sulamalı" (varsayılan) ve "Yalnız yağmur" (`data/tarim*.png`, `tarim_veri.png`, `tarim.json`; `tarim/tarim.py`, `TARIM.md`); kartta sınıf, puan, etkenler ve sınırlayan etken. Nehir çevresi iki seçenekli ayar: "Geniş, yumuşak" (varsayılan, debiye göre 2.5-8 hücre kosinüsle söner) ve "Nehrin yanı"; ikisi için ayrı PNG (`yasam.png`, `yasam_dar.png`, `*_veri.png`). Veriyi `data/atlas.json`'dan,
   harita dokularını `data/doku.png`, `yukseklik.png`, `kabartma*.jpg`,
   `dolasim.png`'den okur.
 - **Üretici** (`uret.py` + `motor/` + `dunya/`) — iklim motorunun ve dünya
@@ -141,7 +141,7 @@ elenen kollar `dunya/dunyam.json` içindeki `_` ile başlayan notlarda.
 | `data/tektonik.json`, `data/levha.png` | tektonik katman: levhalar, sınır çizgileri, volkan kuşakları; harita kutusuna kırpılmış levha kimliği. `tektonik/uygulama.py` yazar (veri.yml üretmez) |
 | `data/bitki.png`, `data/bitki_veri.png`, `data/bitki.json` | bitki örtüsü: paletli biyom haritası (~0.044°); kart için kaynak çözünürlükte R = biyom kodu, G = nem oranı, B = en soğuk ay; biyom adları, açıklamaları, renkleri, payları. `bitki/bitki.py` yazar (veri.yml üretmez) |
 | `data/toprak.png`, `data/toprak_veri.png`, `data/toprak.json` | toprak türleri: paletli WRB haritası (~0.044°, bitki ile aynı büyütme); kart için kaynak çözünürlükte R = toprak kodu; toprak adları, açıklamaları, renkleri, payları. `toprak/toprak.py` yazar (veri.yml üretmez) |
-| `data/yasam.png`, `data/yasam_veri.png`, `data/yasam.json` | yaşanabilirlik: paletli puan sınıfları (~0.044°); kart için kaynak çözünürlükte dikey 4 bölümlü veri PNG'si (0: R = sınıf + 16 × su erişimli, G = puan × 2.5; 1-3: dokuz etken 0-255). `yasam/yasam.py` yazar (veri.yml üretmez) |
+| `data/yasam.png`, `data/yasam_veri.png`, `data/yasam.json` | yaşanabilirlik: paletli puan sınıfları (~0.044°); kart için kaynak çözünürlükte dikey 5 bölümlü veri PNG'si (0: R = sınıf + 16 × su erişimli, G = puan × 2.5; 1-4: on bir etken 0-255, uygulama bölüm sayısını `etkenler` uzunluğundan alır). `yasam/yasam.py` yazar (veri.yml üretmez) |
 | `tektonik/`, `buzul/`, `su/`, `bitki/`, `toprak/`, `yasam/`, `tarim/` | levha modeli, buzul geçmişi, göl ve nehirler, bitki örtüsü, toprak türleri, yaşanabilirlik, tarımsal verimlilik; giriş belgeleri `TEKTONIK.md` (özet `tektonik/OZET.md`), `BUZUL.md`, `SU.md`, `BITKI.md`, `TOPRAK.md`, `YASAM.md`, `TARIM.md` |
 | `motor/` | iklim motoru — asıl projedeki `climate/` kopyası |
 | `dunya/` | `dunyam.json`, `dunyam.currents.json`, `dunyam_heightmap.png`, `kabartma_kaynak.jpg` |

diff --git a/YASAM.md b/YASAM.md
@@ -31,7 +31,9 @@ parçası.
 | 5 | Toprak | 0 (gıdanın içinde) | WRB türünün tarımsal verimlilik sırası (Chernozem 1.0, Fluvisol 0.95, Kastanozem 0.85, Luvisol ve Andosol 0.8, Cambisol 0.7, Lixisol 0.55, Acrisol 0.45, Ferralsol 0.4, Podzol 0.35, Calcisol 0.3, Leptosol 0.2, Cryosol 0.15, Solonchak 0.1); yargıdır, ölçüm değil |
 | 6 | Deniz | 0.5 | kıyıya uzaklık: 0.6 + 0.4 exp(−d/400 km) (balık, ticaret, ılımanlık; zorunlu değil, bonus) |
 | 7 | Tehlike | 1 | çarpışma, dalma ve dönüşüm levha sınırı çevresi ~40 km (deprem, −0.15) ve volkan kuşağı (−0.30); en çok 0.6'ya iner |
-| 8 | Alan | çarpan | çevredeki ~50 km'de elverişli (≥ 0.5) kara payı: dar bir şerit ya da vadi 0.7, geniş ova 1.0 ("insan yaşamı için yeterli alan var mı") |
+| 8 | Hastalık | 2 | sivrisinek kaynaklı hastalık (sıtma) mevsimi: aylık ortalama 18-32 °C (18-22 ve 32-40 °C arası geçiş) ve yağış ≥ 80 mm (0-80 arası geçiş) olan bulanık ay sayısı (MARA/ARMA, Craig, Snow ve le Sueur 1999, Parasitology Today); 1 ay → 1, 7 ay → 0.5. Kış minimumu ve ardışıklık koşulu sadeleştirildi |
+| 9 | Taşkın | 0.5 | büyük nehrin taşkın ovası: en yakın nehir hücresinden yükseklik (HAND benzeri; 3 m → tam, 25 m → yok), debi sınıfına göre ova genişliği (3, 6, 12 hücre) ve ağırlık (0.4, 0.7, 1), eğim, yağışın en yağışlı 3 aya yığılması; alçak kıyı (denize 2 hücre, 2-15 m: fırtına kabarması, delta). Etken = 1 − 0.35 × risk |
+| 10 | Alan | çarpan | çevredeki ~50 km'de elverişli (≥ 0.5) kara payı: dar bir şerit ya da vadi 0.7, geniş ova 1.0 ("insan yaşamı için yeterli alan var mı") |
 
 **Birleşim:** etkenlerin ağırlıklı geometrik ortalaması (bir etken 0 ise sonuç 0:
 telafi edilemez), çarpı kritik dört etkenin (sıcaklık, su, gıda, arazi) en
@@ -107,10 +109,24 @@ olmasın), kartta yine görünür. Gıda kritik dört etkenden biri olduğu içi
 belirgin. O yaylada medyan puan 90 → 76 ("orta"); içinden geçen nehir vadileri
 (Fluvisol) 96 ile öne çıkıyor.
 
-## Sonuç (kara alanına göre, 1 Ekim, son)
+## Hastalık ve taşkın (2 Ekim, sahibi: "bunları da ekle")
 
-Yaşanmaz %23.3, çok zor %4.3, zor %5.9, orta %37.8, elverişli %18.4, çok elverişli %8.4,
-buz %1.9. Kara ortalaması 56.5 puan. En iyi bölge ~13 °C ılıman ova kuşağı ile Duvar'ın
+İki etken eklendi (yukarıdaki tablo, 8 ve 9). Hastalık önce ağırlık 1 ve tam yükte 0.6
+ile denendi: geometrik ortalamada eriyordu, Amazon yalnız 42.0 → 41.7. Ağırlık 2 ve
+0.5 ile Amazon 40 (çok zor), Ganj 65 (4 uygun ay), Kuzey Çin 94.7; ılıman bölgeler değişmedi.
+Taşkın ağırlığı bilerek küçük (0.5): Dünya'da taşkın ovaları en yoğun yerleşilen yerlerdir,
+taşkın bir bedel ama yerleşimi engellemez.
+
+Haritada hastalık tropik güneyde ve Duvar'ın güneyindeki sıcak, nemli ovada (yaz aylarında
+4-6 uygun ay) çıkıyor; karanın %35'inde etken 0.9'un altında. Alüvyon ovasının (Fluvisol)
+hücre ortalaması 79.2 → 76.6. Taşkın büyük nehirler boyunca ve Duvar eteğinde şeritler hâlinde;
+karanın %14'ünde 0.9'un altında.
+
+## Sonuç (kara alanına göre, 2 Ekim, son)
+
+Yaşanmaz %22.7, çok zor %4.3, zor %6.0, orta %42.2, elverişli %15.9, çok elverişli %7.1,
+buz %1.9. Kara ortalaması 56.0 puan (1 Ekim'de, iki etken yokken: %23.3, 4.3, 5.9, 37.8,
+18.4, 8.4; 56.5). En iyi bölge ~13 °C ılıman ova kuşağı ile Duvar'ın
 güneyindeki alüvyon ovası (önülke, `TOPRAK.md`); sıcak güney ovaları "orta / elverişli",
 kurak plato "orta / zor", dağlar ve kuzey yaşanmaz.
 
@@ -120,10 +136,9 @@ kurak plato "orta / zor", dağlar ve kuzey yaşanmaz.
   cezaları bunu Dünya'dan fazla vurur.
 - Su etkeni neredeyse hiçbir yerde sınırlayıcı değil (0.97): motorun yağışı Dünya'dan
   fazla. Gerçek kurak kuşak az.
-- Eksik: hastalık yükü (tropik), sel (nehir ovasının tehlikesi), deniz ve kıyı
-  fırtınası, kış yağışının kar olarak düşmesi, rüzgâr ve yangın, mineral kaynaklar.
-  Sel ve tropik hastalık sonraki aday etkenler.
+- Eksik: kış yağışının kar olarak düşmesi, rüzgâr ve yangın, mineral kaynaklar,
+  sıtma dışı hastalıklar (uyku hastalığı, şistozomiyaz). Taşkın yıllık debi sınıfından;
+  aylık akış rejimi gelince taşkın mevsimi de ona bağlanabilir.
 - Kıyıya uzaklık ızgara hücresiyle (~9.8 km, boylam yönünde 0.8 çarpanı) hesaplanıyor,
   yüksek enlemde kaba.
-- Tarımsal verimlilik ayrı bir soru olarak bekliyor (yalnız toprak türü belirlemez);
-  bu endeks gıda ve toprağı zaten içeriyor ama tarım katmanı ayrı olabilir.
+- Tarımsal verimlilik ayrı katman: `TARIM.md`.

diff --git a/DURUM.md b/DURUM.md
@@ -93,13 +93,14 @@ Uygulama bir ansiklopediye büyüyecek: iklim, dağlar, nehirler, toprak,
 bitki örtüsü, ileride hayvanlar ve canlılar. Karar: özellikler şimdilik
 mevcut sekmelere yerleştirilir, hepsi bitince gruplar hâlinde yeni iskelet
 kurulur. Merak Planet Advisor'dan eksikler sırası: **bitki örtüsü (yapıldı,
-`BITKI.md`) → toprak (yapıldı, `TOPRAK.md`) → yaşanabilirlik (1 Ekim'de dokuz etkenli puana baştan yazıldı, `YASAM.md`)**;
+`BITKI.md`) → toprak (yapıldı, `TOPRAK.md`) → yaşanabilirlik (1 Ekim'de dokuz etkenli puana baştan yazıldı, 2 Ekim'de hastalık ve taşkın eklendi, `YASAM.md`) → tarım (yapıldı, `TARIM.md`)**;
 toplumlar/zincir en sona, "olası okuma, tahmin değil" etiketiyle. Sahibi
 yaşanabilirliği insana özgü değil, genel koşullar olarak istedi (28 Eylül);
 ilk sürüm yalnız net birincil üretimdi ve her yer "çok elverişli" çıktı, o yüzden
-dokuz etkenli puana yazıldı (`YASAM.md`). Tarımsal verimlilik sorusu ("yalnız toprak türü
-belirlemez") şimdilik bekletildi; toprak + eğim + su erişimi ile ayrı katman
-olabilir. Toprak ve yaşanabilirlik veri.yml ile üretilmez, elle koşulur.
+dokuz etkenli puana yazıldı (`YASAM.md`). Tarımsal verimlilik ("yalnız toprak türü
+belirlemez") 1 Ekim'de ayrı katman oldu (`TARIM.md`). Toprak, yaşanabilirlik ve tarım
+veri.yml ile üretilmez, elle koşulur. Sahibinin sırası (2 Ekim): hastalık ve taşkın →
+nehir akış rejimi → arayüzün gruplanması → hayvanlar.
 
 ## Tektonik katman (27 Eylül)
 
